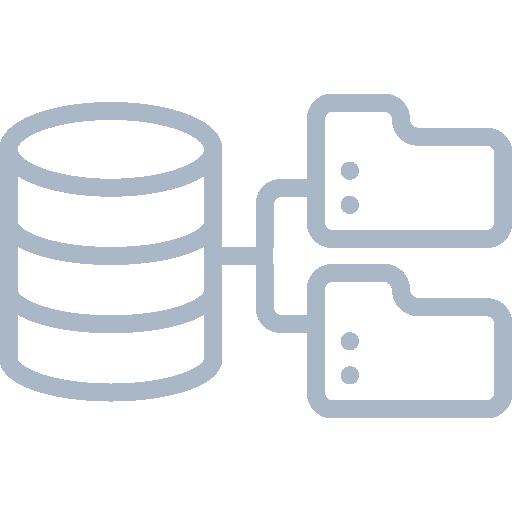
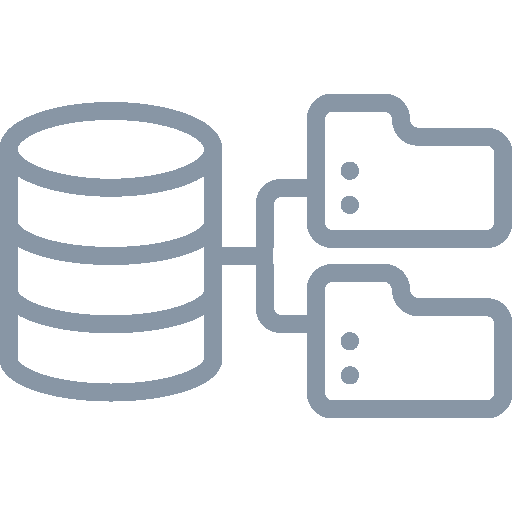
image color fix

Changed region(s): [[0.0, 0.1562, 1.0, 0.8438]]

diff --git a/src/main/java/app/RestWebServiceGenerator.java b/src/main/java/app/RestWebServiceGenerator.java
@@ -12,7 +12,7 @@ import service.ConfigService;
 import java.io.IOException;
 import java.util.Objects;
 
-public class ApplicationJavaFx extends Application {
+public class RestWebServiceGenerator extends Application {
     private final ConfigService configService = new ConfigService();
     private static Stage primaryStage;
 
@@ -23,22 +23,19 @@ public class ApplicationJavaFx extends Application {
     @Override
     public void start(Stage primaryStage) throws Exception {
         this.primaryStage = primaryStage;
-
-
-        FXMLLoader fxmlLoader = new FXMLLoader(ApplicationJavaFx.class.getResource("/fxml/main.fxml"));
+        var fxmlLoader = new FXMLLoader(RestWebServiceGenerator.class.getResource("/fxml/main.fxml"));
         AnchorPane anchorPane = fxmlLoader.load();
-        Scene scene = new Scene(anchorPane);
-        primaryStage.getIcons().add(new Image(Objects.requireNonNull(ApplicationJavaFx.class.getResourceAsStream("/img/img_1.png"))));
+        var scene = new Scene(anchorPane);
+        primaryStage.getIcons().add(new Image(Objects.requireNonNull(RestWebServiceGenerator.class.getResourceAsStream("/img/img_1.png"))));
         primaryStage.setTitle("Generator usług REST Web Services");
         primaryStage.setResizable(false);
         primaryStage.setScene(scene);
         primaryStage.show();
-        //log.info("Application started");
         configService.createConfigFileIfNotExists();
     }
 
     public static void switchScene(String fxml) throws IOException {
-        Parent parent = FXMLLoader.load(ApplicationJavaFx.class.getResource("/fxml/" + fxml));
+        Parent parent = FXMLLoader.load(Objects.requireNonNull(RestWebServiceGenerator.class.getResource("/fxml/" + fxml)));
         primaryStage.getScene().setRoot(parent);
     }
 }

diff --git a/src/main/java/controller/MainController.java b/src/main/java/controller/MainController.java
@@ -1,6 +1,6 @@
 package controller;
 
-import app.ApplicationJavaFx;
+import app.RestWebServiceGenerator;
 import config.Extension;
 import javafx.application.Platform;
 import javafx.event.ActionEvent;
@@ -12,7 +12,7 @@ public class MainController {
 
     public void switchScene(ActionEvent actionEvent) throws IOException {
         var button = (Button) actionEvent.getSource();
-        ApplicationJavaFx.switchScene( button.getId() + Extension.FXML);
+        RestWebServiceGenerator.switchScene( button.getId() + Extension.FXML);
     }
 
     public void closeApplication(){

diff --git a/src/main/java/controller/GeneratorController.java b/src/main/java/controller/GeneratorController.java
@@ -1,6 +1,6 @@
 package controller;
 
-import app.ApplicationJavaFx;
+import app.RestWebServiceGenerator;
 import config.Extension;
 import controller.customization.ListViewCell;
 import javafx.event.ActionEvent;
@@ -62,7 +62,7 @@ public class GeneratorController {
 
     public void switchScene(ActionEvent actionEvent) throws IOException {
         var button = (Button) actionEvent.getSource();
-        ApplicationJavaFx.switchScene( button.getId() + Extension.FXML);
+        RestWebServiceGenerator.switchScene( button.getId() + Extension.FXML);
     }
 
 }

diff --git a/src/main/java/controller/OptionsController.java b/src/main/java/controller/OptionsController.java
@@ -1,6 +1,6 @@
 package controller;
 
-import app.ApplicationJavaFx;
+import app.RestWebServiceGenerator;
 import config.Extension;
 import dto.Config;
 import javafx.event.ActionEvent;
@@ -86,7 +86,7 @@ public class OptionsController {
 
     public void switchScene(ActionEvent actionEvent) throws IOException {
         var button = (Button) actionEvent.getSource();
-        ApplicationJavaFx.switchScene( button.getId() + Extension.FXML);
+        RestWebServiceGenerator.switchScene( button.getId() + Extension.FXML);
     }
 
 }
